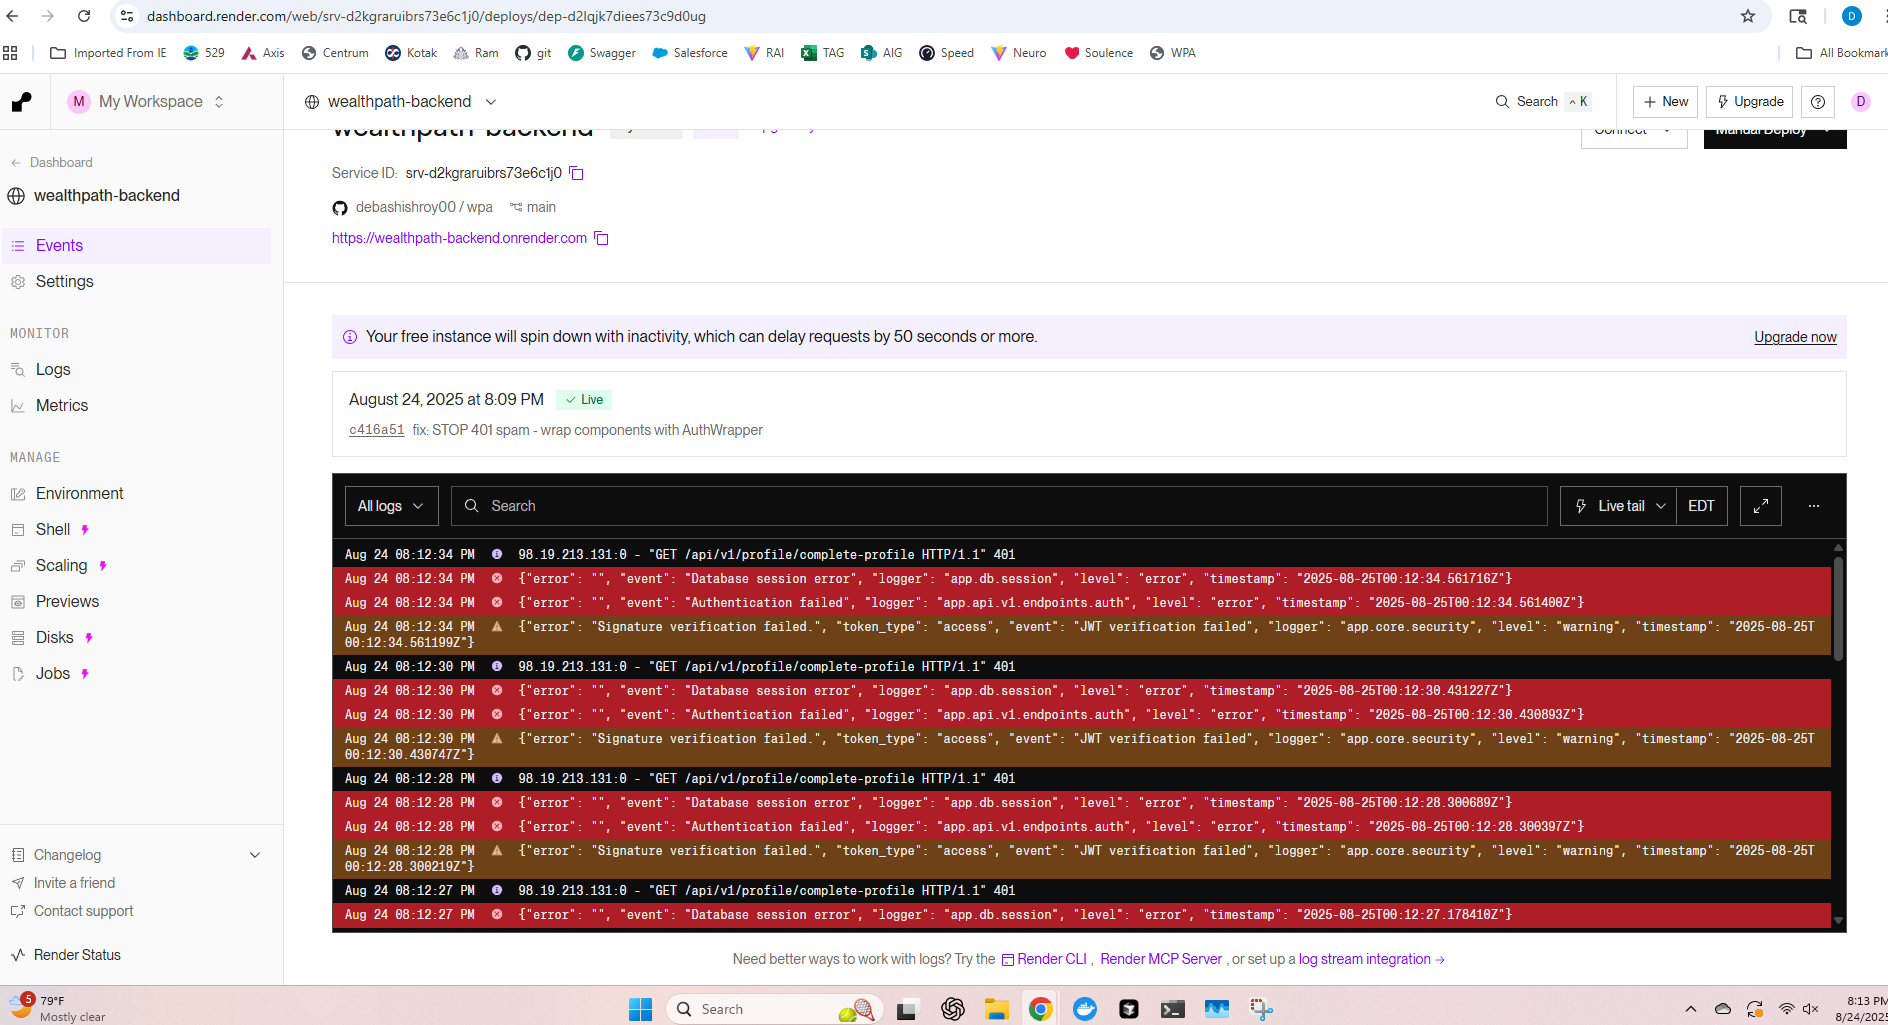
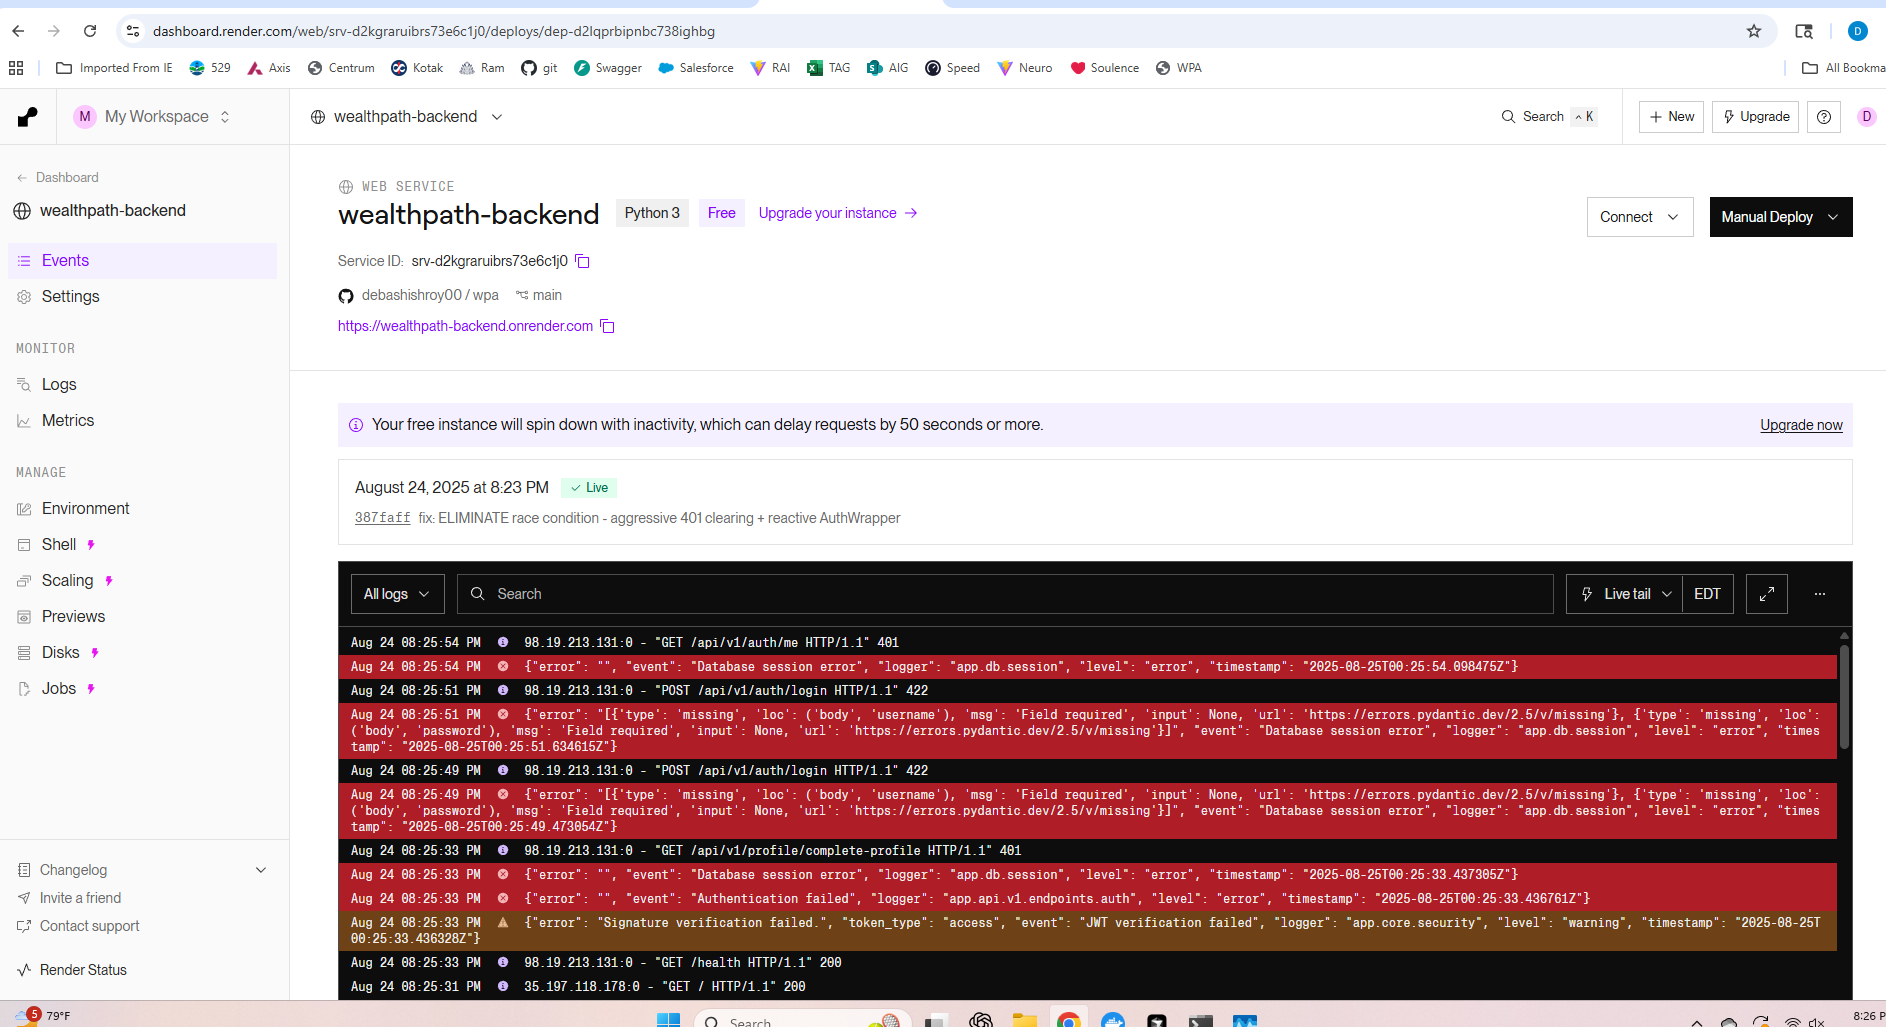
revert: Restore simple working state - remove complex auth logic

diff --git a/frontend/src/components/AuthWrapper.tsx b/frontend/src/components/AuthWrapper.tsx
@@ -1,8 +1,8 @@
 /**
- * Auth Wrapper - Only render children if user has a VALID token
- * Prevents automatic API calls when not authenticated or tokens are invalid
+ * Simple Auth Wrapper - Only render children if user has a token
+ * Prevents automatic API calls when not authenticated
  */
-import React, { useState, useEffect } from 'react';
+import React from 'react';
 
 interface AuthWrapperProps {
   children: React.ReactNode;
@@ -10,84 +10,10 @@ interface AuthWrapperProps {
 }
 
 const AuthWrapper: React.FC<AuthWrapperProps> = ({ children, fallback }) => {
-  const [isValid, setIsValid] = useState<boolean | null>(null); // null = checking, false = invalid, true = valid
+  // Simple token check - don't validate, just check if exists
+  const hasToken = !!localStorage.getItem('access_token');
   
-  useEffect(() => {
-    const checkTokenValidity = async () => {
-      const token = localStorage.getItem('access_token');
-      
-      if (!token) {
-        console.log('🚫 AuthWrapper: No token found');
-        setIsValid(false);
-        return;
-      }
-      
-      // Simple token expiration check (if it's a JWT)
-      try {
-        console.log('🔍 AuthWrapper: Checking token expiration...');
-        const payload = JSON.parse(atob(token.split('.')[1]));
-        const currentTime = Math.floor(Date.now() / 1000);
-        
-        if (payload.exp && payload.exp < currentTime) {
-          console.log('❌ AuthWrapper: Token is expired, clearing localStorage');
-          // Clear all auth-related data
-          localStorage.removeItem('access_token');
-          localStorage.removeItem('auth_tokens');
-          localStorage.removeItem('wealthpath-auth-store');
-          setIsValid(false);
-        } else {
-          console.log('✅ AuthWrapper: Token appears valid (not expired)');
-          setIsValid(true);
-        }
-      } catch (error) {
-        // If token isn't JWT or can't be decoded, assume it's invalid
-        console.log('❌ AuthWrapper: Token is not valid JWT format, clearing localStorage');
-        localStorage.removeItem('access_token');
-        localStorage.removeItem('auth_tokens');
-        localStorage.removeItem('wealthpath-auth-store');
-        setIsValid(false);
-      }
-    };
-    
-    // Check initially
-    checkTokenValidity();
-    
-    // Listen for localStorage changes (including from other tabs/scripts)
-    const handleStorageChange = (e: StorageEvent) => {
-      if (e.key === 'access_token' || e.key === 'auth_tokens' || e.key === null) {
-        console.log('📡 AuthWrapper: Storage changed, re-checking auth...');
-        // Small delay to ensure all clearing is complete
-        setTimeout(checkTokenValidity, 100);
-      }
-    };
-    
-    // Listen for custom auth clearing events
-    const handleAuthCleared = () => {
-      console.log('🔄 AuthWrapper: Auth cleared event received');
-      setIsValid(false);
-    };
-    
-    window.addEventListener('storage', handleStorageChange);
-    window.addEventListener('authCleared', handleAuthCleared);
-    
-    return () => {
-      window.removeEventListener('storage', handleStorageChange);
-      window.removeEventListener('authCleared', handleAuthCleared);
-    };
-  }, []);
-  
-  // Still checking token validity
-  if (isValid === null) {
-    return (
-      <div className="bg-gray-800 rounded-lg shadow-md p-6 border border-gray-700 text-center">
-        <div className="animate-spin rounded-full h-8 w-8 border-b-2 border-blue-600 mx-auto mb-4"></div>
-        <p className="text-gray-300">Validating authentication...</p>
-      </div>
-    );
-  }
-  
-  // Token is invalid or doesn't exist
-  if (!isValid) {
+  if (!hasToken) {
     return (
       <div className="bg-gray-800 rounded-lg shadow-md p-6 border border-gray-700 text-center">
         <div className="text-gray-400 mb-4">

diff --git a/frontend/src/App.tsx b/frontend/src/App.tsx
@@ -4,13 +4,10 @@ import { Helmet } from 'react-helmet-async'
 // Utilities
 import { apiClient } from './utils/api-simple' // Use simplified API client
 import { useAuthStore } from './stores/auth-store'
-import './utils/clearInvalidAuth' // Auto-clear invalid auth on load
-// REMOVED: import './utils/emergencyAuthReset' // Commenting out to avoid interference
 
 // Components
 import FinancialManagementPage from './components/financial/FinancialManagementPage'
 import ProfileManagementPage from './components/profile/ProfileManagementPage'
-import AuthWrapper from './components/AuthWrapper'
 import ProjectionsPage from './components/projections/ProjectionsPage'
 import { EnableAssumptionsEditing } from './components/QuickFix'
 import GoalManager from './components/goals/GoalManager'
@@ -180,11 +177,7 @@ function App() {
   }
 
   if (currentView === 'projections') {
-    return (
-      <AuthWrapper>
-        <ProjectionsPage />
-      </AuthWrapper>
-    )
+    return <ProjectionsPage />
   }
 
 
@@ -667,9 +660,7 @@ const FinancialDataStep: React.FC<FinancialDataStepProps> = ({ onNext }) => {
       </div>
       
       {/* Financial Management Page */}
-      <AuthWrapper>
-        <FinancialManagementPage />
-      </AuthWrapper>
+      <FinancialManagementPage />
       
       {/* Continue Button */}
       <div style={{
@@ -730,9 +721,7 @@ const ProfileDataStep: React.FC<ProfileDataStepProps> = ({ onNext }) => {
       </div>
       
       {/* Profile Management Page */}
-      <AuthWrapper>
-        <ProfileManagementPage />
-      </AuthWrapper>
+      <ProfileManagementPage />
       
       {/* Continue Button */}
       <div style={{
@@ -3752,9 +3741,7 @@ const GoalDefinitionStep: React.FC<{ onNext: () => void }> = ({ onNext }) => {
         minHeight: '400px',
         borderRadius: '0 0 12px 12px'
       }}>
-        <AuthWrapper>
-          <GoalManager />
-        </AuthWrapper>
+        <GoalManager />
       </div>
       
       {/* Continue Button */}
@@ -3784,11 +3771,7 @@ const GoalDefinitionStep: React.FC<{ onNext: () => void }> = ({ onNext }) => {
 }
 
 const IntelligenceStep: React.FC<{ onNext: () => void }> = ({ onNext }) => {
-  return (
-    <AuthWrapper>
-      <IntelligenceDashboard onNext={onNext} />
-    </AuthWrapper>
-  )
+  return <IntelligenceDashboard onNext={onNext} />
 }
 
 interface RoadmapStepProps {
@@ -3797,9 +3780,7 @@ interface RoadmapStepProps {
 
 const RoadmapStep: React.FC<RoadmapStepProps> = ({ onNext }) => (
   <div>
-    <AuthWrapper>
-      <FinancialAdvisoryDashboard />
-    </AuthWrapper>
+    <FinancialAdvisoryDashboard />
     <div style={{ textAlign: 'center', marginTop: '30px' }}>
       <button 
         onClick={onNext}
@@ -3841,9 +3822,7 @@ const ChatStep: React.FC = () => (
         Chat with your personal AI Financial Advisor using real-time data from your financial profile
       </p>
     </div>
-    <AuthWrapper>
-      <FinancialAdvisorChat />
-    </AuthWrapper>
+    <FinancialAdvisorChat />
   </div>
 )
 

diff --git a/frontend/src/utils/api-simple.ts b/frontend/src/utils/api-simple.ts
@@ -55,25 +55,14 @@ class ApiClient {
       (error) => Promise.reject(error)
     );
 
-    // SIMPLIFIED Response interceptor - aggressive auth clearing on 401
+    // SIMPLIFIED Response interceptor - no refresh logic
     this.client.interceptors.response.use(
       (response) => response,
       (error) => {
-        // Aggressively clear auth on any 401 error
+        // Just pass through the error - don't try to refresh
         if (error.response?.status === 401) {
-          console.log('401 error - clearing all auth data immediately');
-          
-          // Clear all auth data immediately
-          localStorage.removeItem('access_token');
-          localStorage.removeItem('auth_tokens');
-          localStorage.removeItem('wealthpath-auth-store');
-          sessionStorage.clear();
-          
-          // Dispatch event to notify AuthWrapper
-          window.dispatchEvent(new CustomEvent('authCleared'));
-          
-          // Clear from this client too
-          this.tokens = undefined;
+          console.log('401 error - auth required (no auto-refresh)');
+          // Don't clear tokens, don't refresh, just let it fail gracefully
         }
         
         return Promise.reject(error);
@@ -148,13 +137,6 @@ apiClient.loadTokensFromStorage();
 if (typeof window !== 'undefined') {
   (window as any).quickLogin = async () => {
     try {
-      // First, clear any existing auth data
-      console.log('🧹 Clearing existing auth before login...');
-      localStorage.removeItem('access_token');
-      localStorage.removeItem('auth_tokens');
-      localStorage.removeItem('wealthpath-auth-store');
-      sessionStorage.clear();
-      
       console.log('🔄 Attempting quick login...');
       const baseURL = getApiBaseUrl();
       const response = await fetch(`${baseURL}/api/v1/auth/login`, {
@@ -177,7 +159,6 @@ if (typeof window !== 'undefined') {
         window.location.reload();
       } else {
         console.error('❌ Login failed - no access token in response');
-        console.error('Response:', data);
       }
     } catch (error) {
       console.error('❌ Login failed:', error);
